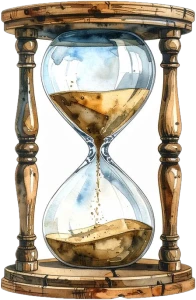
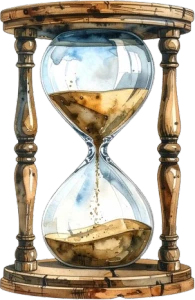
UI: clean hourglass + sconce, seamless desk, duller wood
- Midhat's transparent hourglass and sconce images (glass now see-through).
- Desk top and button bar share one window-fixed wood surface + shading,
  so there is no line where they meet.
- Wood wash a little duller (rgba(42,22,16,.74)).

diff --git a/bookworm/ui/index.html b/bookworm/ui/index.html
@@ -12,7 +12,14 @@
     --ink: #3B2A20; --muted: #7A6556; --cream: #FFF8EC; --paper: #FFFDF8;
     --wall: #22372B; --wall-2: #172820;
     --wall-tone: rgba(22, 40, 31, .62);
-    --wood-tone: rgba(48, 22, 14, .66);   /* dull reddish-brown wash on the wood: 0 = raw grain, 1 = plain colour */   /* how strongly the wallpaper is toned down: 0 = full pattern, 1 = plain green */   /* green damask (burgundy tried: #561827 / #300B15) */  --wood: #7A4E2D; --wood-2: #5E3A20;
+    --wood-tone: rgba(42, 22, 16, .74);   /* was rgba(48, 22, 14, .66): a little duller and less saturated */
+    /* ONE desk surface shared by the desk top and the button bar. Every layer is pinned to the window
+       (fixed), so both pieces show the same continuous wood and shading, with no seam between them. */
+    --desk-surface:
+      linear-gradient(180deg, transparent 0 58%, rgba(30,12,4,.22) 75%, rgba(16,6,2,.62) 100%) fixed,
+      linear-gradient(var(--wood-tone), var(--wood-tone)),
+      url("/static/wood.webp") 0 0 / 520px 100vh repeat-x fixed,
+      #3A1A10;   /* dull reddish-brown wash on the wood: 0 = raw grain, 1 = plain colour */   /* how strongly the wallpaper is toned down: 0 = full pattern, 1 = plain green */   /* green damask (burgundy tried: #561827 / #300B15) */  --wood: #7A4E2D; --wood-2: #5E3A20;
     --leather: #5B3824; --leather-2: #3E2416; --edge: #D8CCB8;
     --amber: #F2B35A; --glow: rgba(255, 196, 110, .55); --ribbon: #9E2B2B; --ribbon-2: #7A1F1F;
     --danger: #B42318; --focus: #8B5CF6;
@@ -44,7 +51,7 @@
                   box-shadow: 0 4px 10px rgba(0,0,0,.45); }
 
   /* ---------- wall decor ---------- */
-  .lamp { position: absolute; top: 12px; height: clamp(104px, 17vh, 168px); aspect-ratio: 176 / 319; z-index: 1; pointer-events: none; }
+  .lamp { position: absolute; top: 12px; height: clamp(104px, 17vh, 168px); aspect-ratio: 175 / 320; z-index: 1; pointer-events: none; }
   .lamp.l { left: 2.5%; } .lamp.r { right: 2.5%; transform: scaleX(-1); }
   .lamp img { position: relative; height: 100%; display: block; filter: drop-shadow(0 6px 6px rgba(40,20,8,.35)); }
   .halo { position: absolute; left: 66%; top: 66%; width: 260%; aspect-ratio: 1; transform: translate(-50%, -50%);
@@ -56,7 +63,7 @@
   .painting { position: absolute; z-index: 0; height: auto; pointer-events: none;
               --bw: min(100cqw - 150px, (100cqh - 84px) * 258 / 196); --bh: calc(var(--bw) * 196 / 258);
               /* never wider than the wall between the sconce and the book */
-              --lampw: calc(clamp(104px, 17vh, 168px) * 176 / 319);
+              --lampw: calc(clamp(104px, 17vh, 168px) * 175 / 320);
               --avail: calc(50cqw - var(--bw) / 2 - 30px - var(--gap) - 2.5cqw - var(--lampw) - 16px);
               width: clamp(72px, min(8.6vw, var(--avail)), 150px);
               top: calc(50cqh - 15px - var(--bh) / 2 - 10px);
@@ -86,10 +93,7 @@
   .stage { position: relative; z-index: 2; min-height: 0; container-type: size; display: grid; place-items: center;
            perspective: 2400px; }
   .desk { position: absolute; left: 0; right: 0; bottom: 0; height: 34%; z-index: -1;
-          /* book-matched veneer from her table (mirrored tile), darker toward the front */
-          background: linear-gradient(180deg, rgba(40,18,6,.05), rgba(30,12,4,.35)),
-                      linear-gradient(var(--wood-tone), var(--wood-tone)),                 /* reddish-brown wash */
-                      url("/static/wood.webp") 0 0 / 520px 100% repeat-x, var(--wood-2);
+          background: var(--desk-surface);
           box-shadow: inset 0 8px 14px rgba(0,0,0,.35); }
   .prop { position: absolute; z-index: 0; height: auto; pointer-events: none; filter: drop-shadow(0 8px 8px rgba(30,12,4,.35)); }
   .stack { left: 2.5%; bottom: 7%; width: clamp(110px, 10.5vw, 165px); }
@@ -198,9 +202,7 @@
 
   /* ---------- desk controls ---------- */
   .bar { position: relative; z-index: 3;
-         background: linear-gradient(180deg, rgba(30,8,4,.55), rgba(18,5,2,.7)),
-                     linear-gradient(var(--wood-tone), var(--wood-tone)), url("/static/wood.webp") 0 0 / 520px 100% repeat-x, #3A1A10;
-         box-shadow: inset 0 10px 14px -8px rgba(0,0,0,.55);
+         background: var(--desk-surface);    /* same surface as the desk: no line where they meet */
          padding: var(--s2) var(--s4) var(--s3); display: grid; gap: 6px; justify-items: center; }
   .controls { display: flex; flex-wrap: wrap; gap: var(--s2); justify-content: center; }
   button { font: 500 13px/1 Roboto, sans-serif; color: var(--ink); background: var(--cream);
